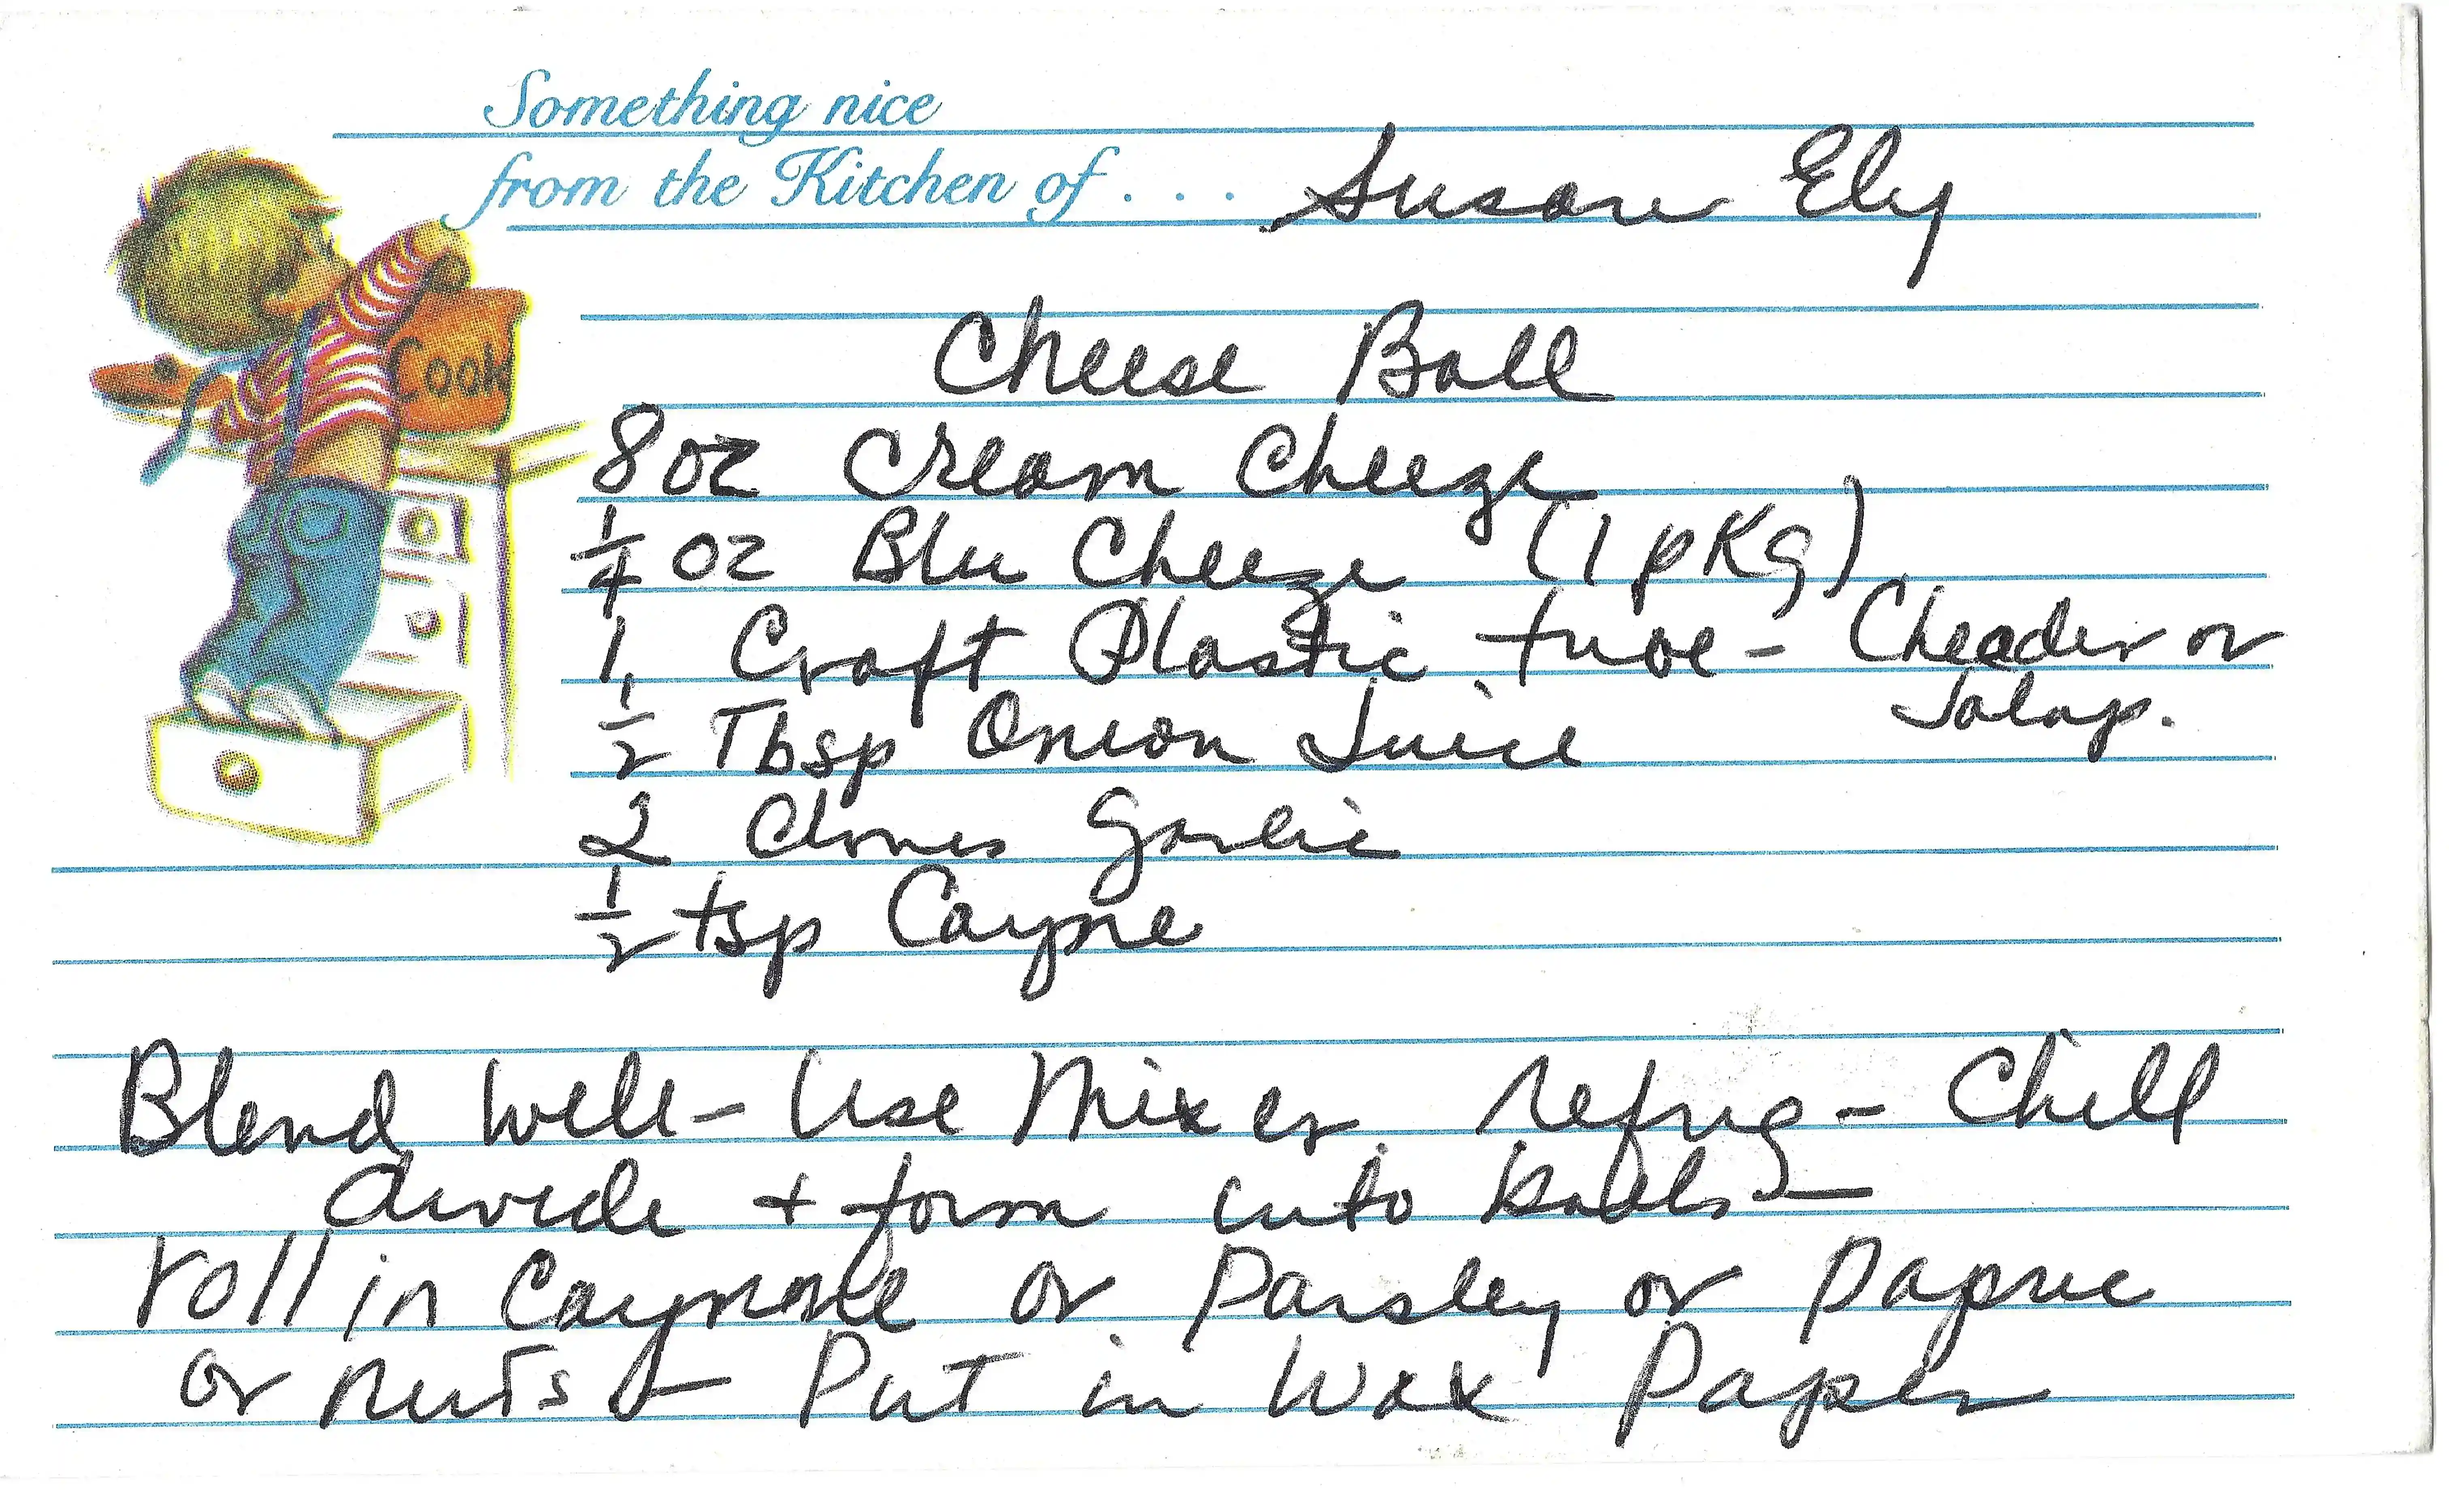
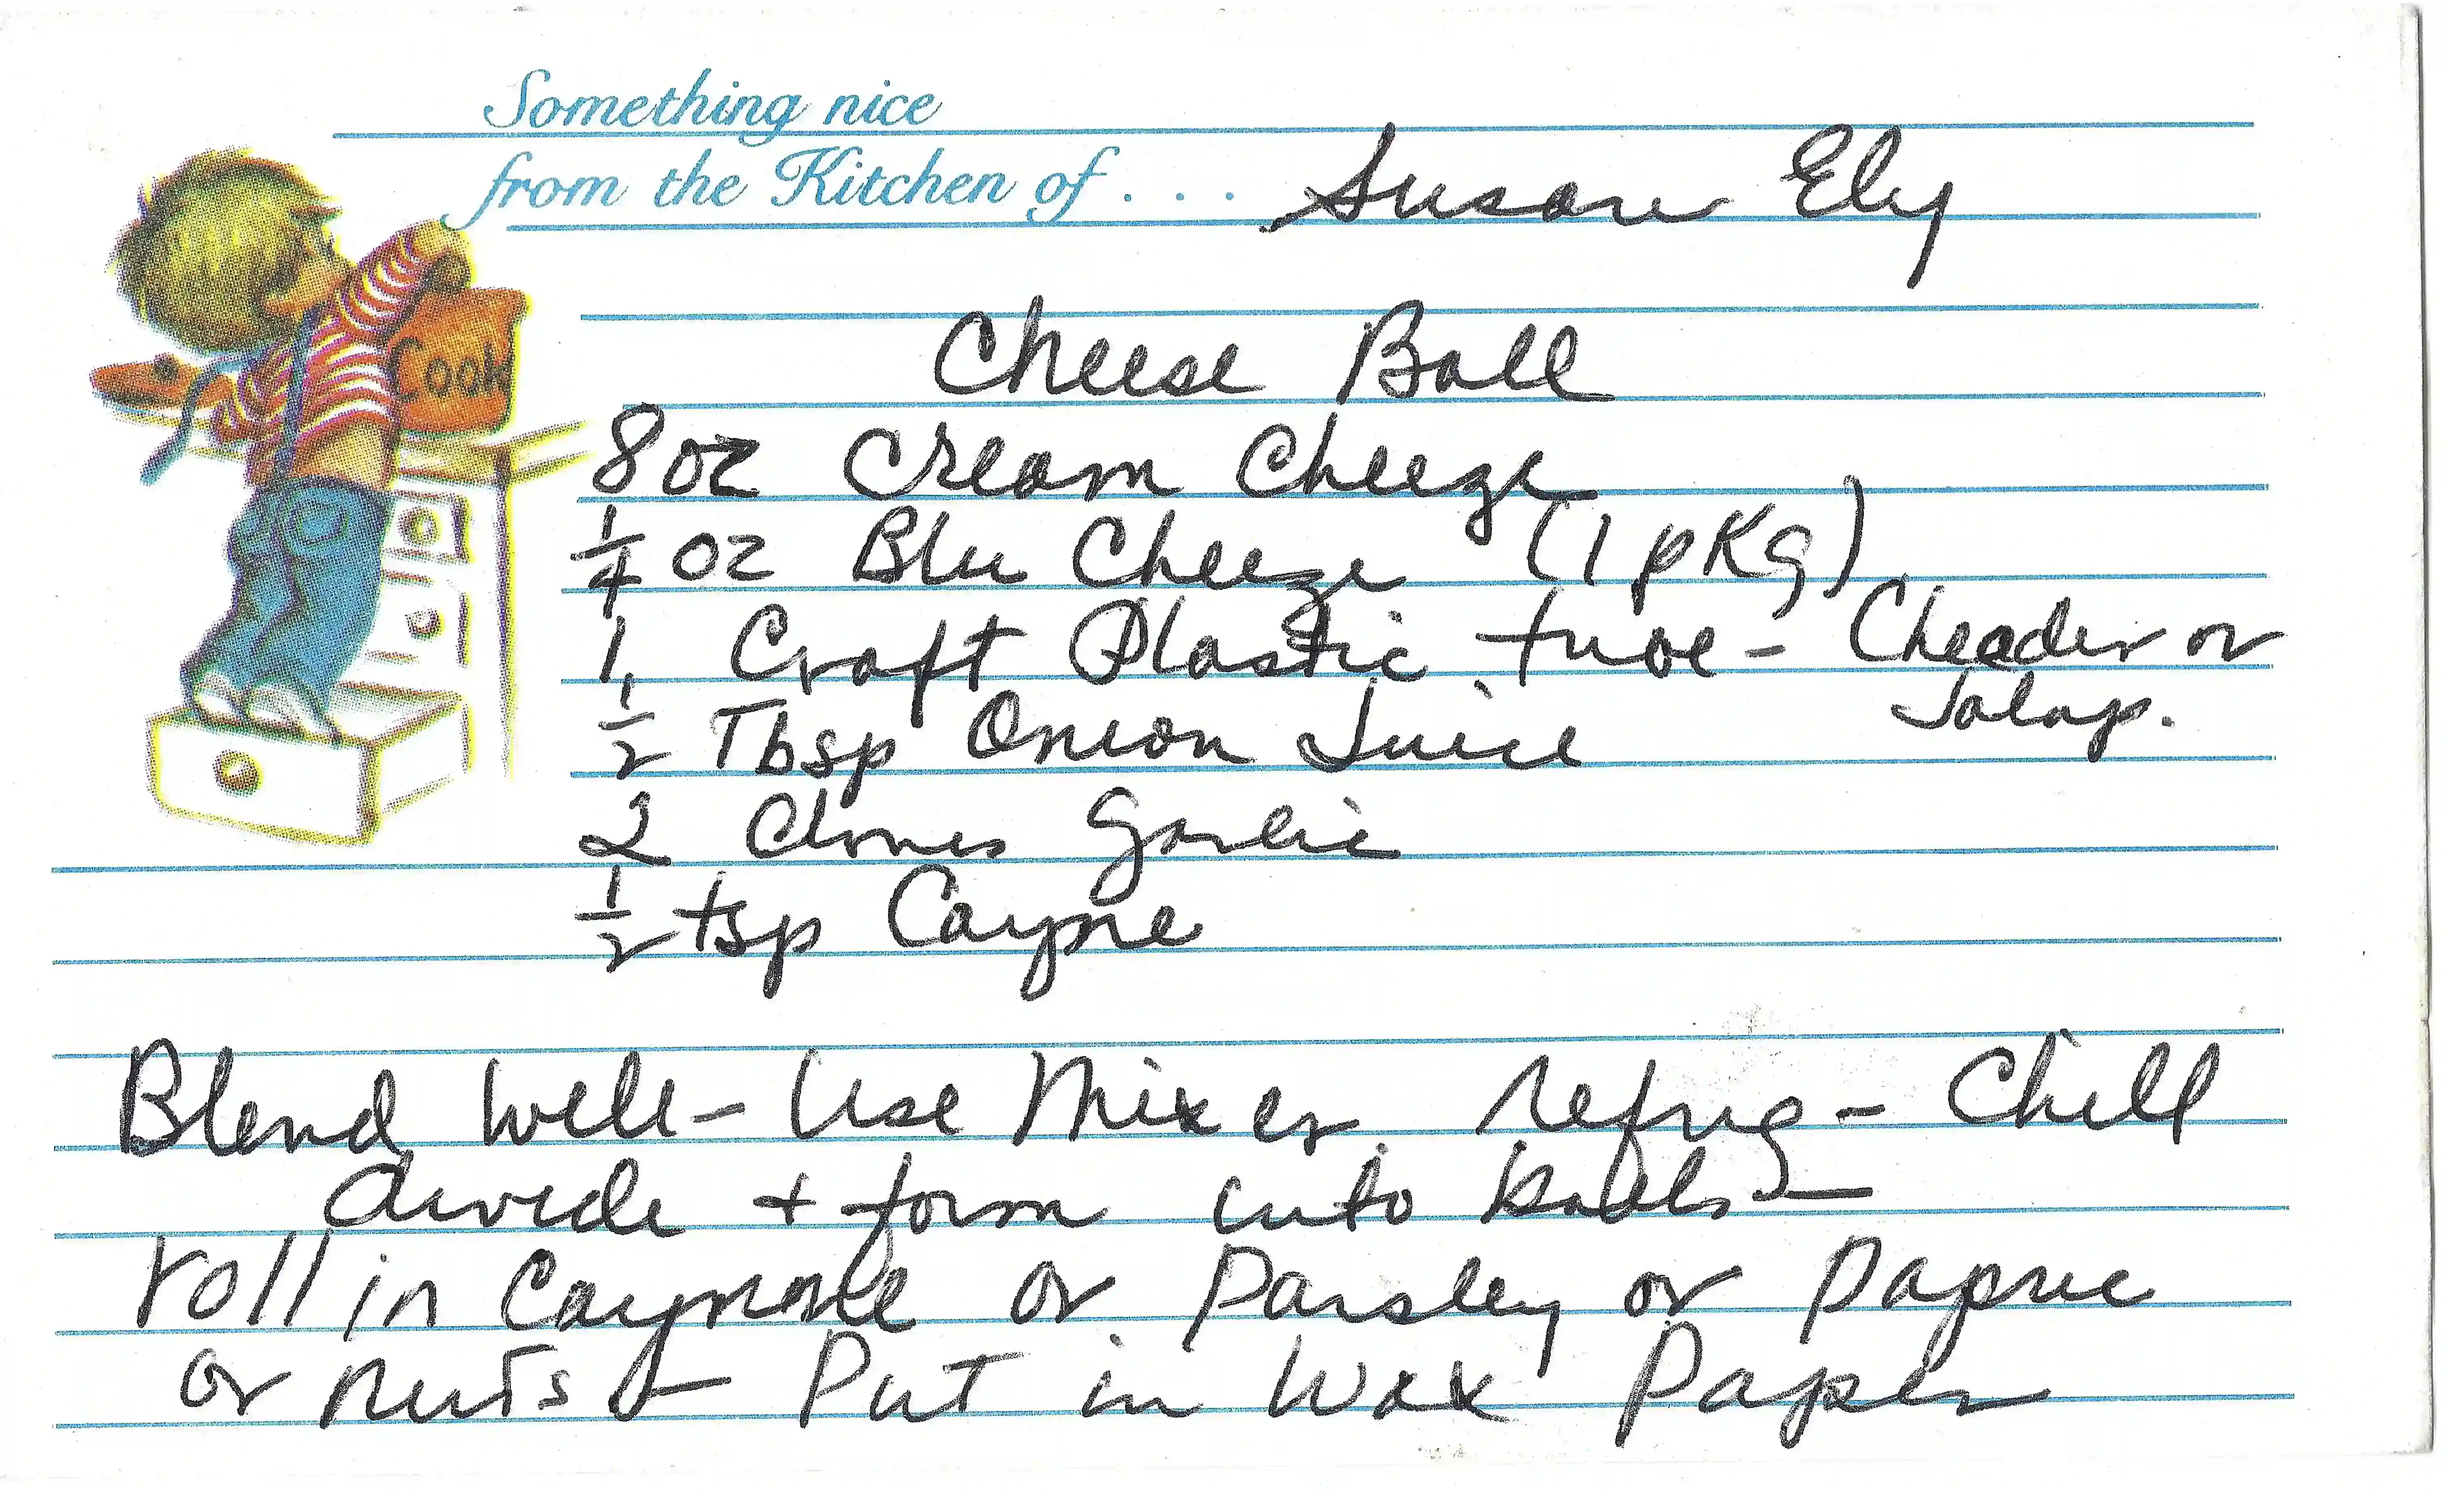
Quartz sync: Jan 7, 2025, 1:41 PM

diff --git a/content/Sides/Potatoes/Twice Baked Potatoes LC.md b/content/Sides/Potatoes/Twice Baked Potatoes LC.md
@@ -37,5 +37,5 @@ ___
 >
 >"Since the chives were so expensive ($1.00 for the little bunch), I froze the rest. Should be OK to use them in the same potato recipe—just thaw them out first"
 
-___![[2024-07-22_172359.jpg]]
-![[Handwritten_2024-07-22_173108.jpg]]
+___![[2024-07-22_172359.webp]]
+![[Handwritten_2024-07-22_173108.webp]]

diff --git a/content/Salads/Potato Salad/Potato Salad LC.md b/content/Salads/Potato Salad/Potato Salad LC.md
@@ -31,5 +31,5 @@ ___
 6. Slice eggs—set half of them aside and mix the other half into the mixture from above
 7. Place the rest of the egg slices on top and sprinkle with paprika 
 ___
-![[2024-07-22_164937.jpg]]
-![[Handwritten_2024-07-22_165448.jpg]]
+![[2024-07-22_164937.webp]]
+![[Handwritten_2024-07-22_165448.webp]]

diff --git a/content/Desserts/Cookies/Apple Sauce Cookies PC.md b/content/Desserts/Cookies/Apple Sauce Cookies PC.md
@@ -34,4 +34,4 @@ ___
 5. Drop rounded tablespoons of dough 2 inches apart on a lightly greased baking sheet.
 6. Bake 9 to 12 minutes, until lightly browned. Cookies should be almost "no imprint" when touched lightly.
 ___
-![[Handwritten_2025-01-04_144818.jpg]]
+![[Handwritten_2025-01-04_144818.webp]]

diff --git a/content/Entrees/Pork Chops/Barbequed Pork Chops LC.md b/content/Entrees/Pork Chops/Barbequed Pork Chops LC.md
@@ -37,6 +37,6 @@ ___
 >Very good
 
 ___
-![[content/Entrees/Pork Chops/Assets/Handwritten_2024-07-17_083658.jpg]]
+![[Handwritten_2024-07-17_083658.webp]]
 
-![[Handwritten_2024-07-17_084320 (2).jpg]]
+![[Handwritten_2024-07-17_084320 (2).webp]]

diff --git a/content/Salads/Carrot Salad/Carrot Salad LC.md b/content/Salads/Carrot Salad/Carrot Salad LC.md
@@ -38,4 +38,4 @@ ___
 >I use frozen round carrots from Ranch market
 
 ___
-![[Handwritten_2024-06-22_171845.jpg]]![[Handwritten_2024-06-22_172311 (2).jpg]]
+![[Handwritten_2024-06-22_171845.webp]]![[Handwritten_2024-06-22_172311 (2).webp]]

diff --git a/content/Salads/Bean Salad/Three Bean Salad PC.md b/content/Salads/Bean Salad/Three Bean Salad PC.md
@@ -32,4 +32,4 @@ ___
 3. Add right before serving: Avocado, Cherry Tomato's, and Crumbled tortilla chips
 
 ___
-![[Handwritten_2025-01-06_140956.jpg]]
+![[Handwritten_2025-01-06_140956.webp]]

diff --git a/content/Entrees/Mac & Cheese/Mac & Cheese PC.md b/content/Entrees/Mac & Cheese/Mac & Cheese PC.md
@@ -31,4 +31,4 @@ ___
 5. Add the remaining 1 cup of cheddar cheese.
 6. Bake for 15 more minutes.
 ___
-![[Handwritten_2025-01-04_142143.jpg]]
+![[Handwritten_2025-01-04_142143.webp]]

diff --git a/content/Entrees/Quiche/Mushroom Quiche PC.md b/content/Entrees/Quiche/Mushroom Quiche PC.md
@@ -41,7 +41,7 @@ ___
 
 ___
 
-![[2025-01-05_123741 1.jpg]]
+![[2025-01-05_123741 1.webp]]
 
-![[Handwritten_2025-01-05_124429 1.jpg]]
+![[Handwritten_2025-01-05_124429 1.webp]]
 

diff --git a/content/Sauces/Remoulade/Remoulade Sauce For Fish or Shrimp LC.md b/content/Sauces/Remoulade/Remoulade Sauce For Fish or Shrimp LC.md
@@ -29,4 +29,4 @@ ___
 3. Add oil and beet mixture thoroughly
 4. Add onions and celery.
 ___
-![[RemouladeSauceforfishorshrimp.jpg]]
+![[RemouladeSauceforfishorshrimp.webp]]

diff --git a/content/Desserts/Cake/Fruit/Tomato Soup Cake PC.md b/content/Desserts/Cake/Fruit/Tomato Soup Cake PC.md
@@ -40,4 +40,4 @@ ___
 
 ![[Handwritten_2025-01-05_112544.webp]]
 
-![[Handwritten_2025-01-05_113129 (2).jpg]]
+![[Handwritten_2025-01-05_113129 (2).webp]]

diff --git a/content/Desserts/Cake/Pound Cake/Draft.md b/content/Desserts/Cake/Pound Cake/Draft.md
@@ -40,4 +40,4 @@ ___
 
 ![[Handwritten_2025-01-05_112544.jpg]]
 
-![[Handwritten_2025-01-05_113129 (2).jpg]]
+![[Handwritten_2025-01-05_113129 (2).webp]]

diff --git a/content/Sides/Noodles/Noodles Romanoff PC.md b/content/Sides/Noodles/Noodles Romanoff PC.md
@@ -25,4 +25,4 @@ ___
 3. Toss with hot noodles.
 
 ___
-![[Handwritten_2025-01-05_114958.jpg]]
+![[Handwritten_2025-01-05_114958.webp]]
